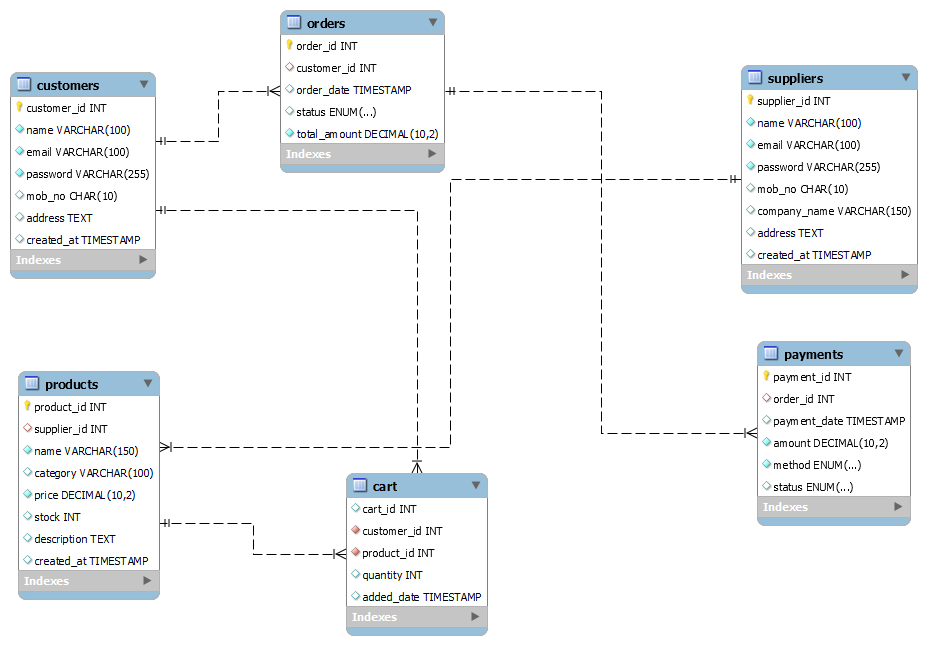
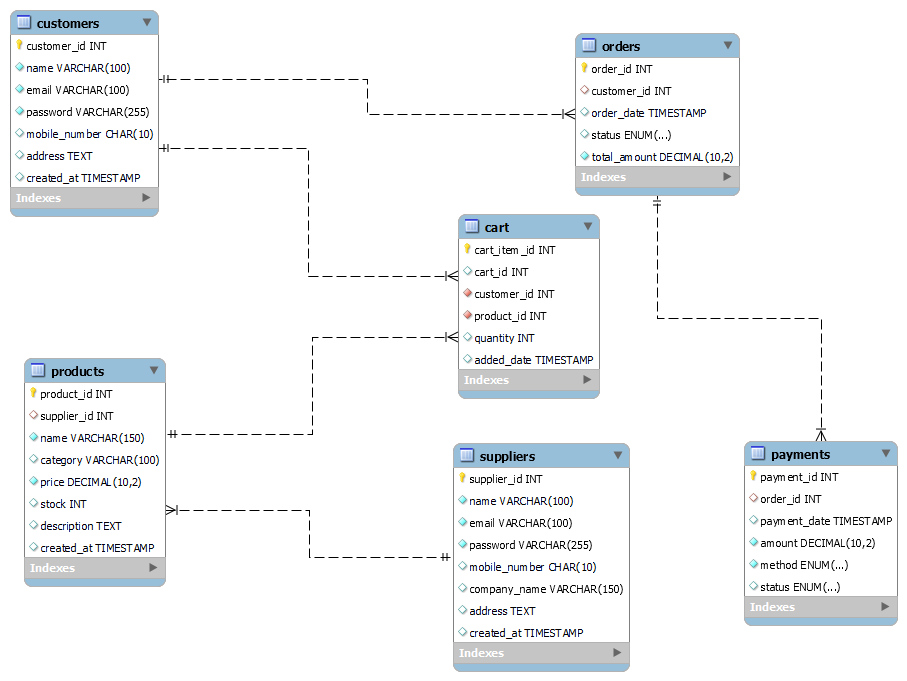
inital commit

diff --git a/quitq/src/main/java/com/hexaware/entity/Customer.java b/quitq/src/main/java/com/hexaware/entity/Customer.java
@@ -2,103 +2,110 @@ package com.hexaware.entity;
 
 import java.util.Date;
 
-public class Supplier {
+public class Customer {
 	
-	private int supplierId;
+	private int customerId;
 	private String name;
 	private String email;
 	private String password;
 	private String mobileNumber;
-	private String companyName;
 	private String address;
 	private Date createdAt;
 	
-	public Supplier() {
+	
+	public Customer() {
 		super();
 	}
 
-	public Supplier(int supplierId, String name, String email, String password, String mobileNumber, String companyName,
-			String address, Date createdAt) {
+
+	public Customer(int customerId, String name, String email, String password, String mobileNumber, String address,
+			Date createdAt) {
 		super();
-		this.supplierId = supplierId;
+		this.customerId = customerId;
 		this.name = name;
 		this.email = email;
 		this.password = password;
 		this.mobileNumber = mobileNumber;
-		this.companyName = companyName;
 		this.address = address;
 		this.createdAt = createdAt;
 	}
 
-	public int getSupplierId() {
-		return supplierId;
+
+	public int getCustomerId() {
+		return customerId;
 	}
 
-	public void setSupplierId(int supplierId) {
-		this.supplierId = supplierId;
+
+	public void setCustomerId(int customerId) {
+		this.customerId = customerId;
 	}
+
 
 	public String getName() {
 		return name;
 	}
 
+
 	public void setName(String name) {
 		this.name = name;
 	}
+
 
 	public String getEmail() {
 		return email;
 	}
 
+
 	public void setEmail(String email) {
 		this.email = email;
 	}
+
 
 	public String getPassword() {
 		return password;
 	}
 
+
 	public void setPassword(String password) {
 		this.password = password;
 	}
+
 
 	public String getMobileNumber() {
 		return mobileNumber;
 	}
 
+
 	public void setMobileNumber(String mobileNumber) {
 		this.mobileNumber = mobileNumber;
 	}
 
-	public String getCompanyName() {
-		return companyName;
-	}
-
-	public void setCompanyName(String companyName) {
-		this.companyName = companyName;
-	}
 
 	public String getAddress() {
 		return address;
 	}
 
+
 	public void setAddress(String address) {
 		this.address = address;
 	}
+
 
 	public Date getCreatedAt() {
 		return createdAt;
 	}
 
+
 	public void setCreatedAt(Date createdAt) {
 		this.createdAt = createdAt;
 	}
 
+
 	@Override
 	public String toString() {
-		return "Supplier [supplierId=" + supplierId + ", name=" + name + ", email=" + email + ", mobileNumber="
-				+ mobileNumber + ", companyName=" + companyName + ", address=" + address + ", createdAt=" + createdAt
-				+ "]";
+		return "Customer [customerId=" + customerId + ", name=" + name + ", email=" + email + ", mobileNumber="
+				+ mobileNumber + ", address=" + address + ", createdAt=" + createdAt + "]";
 	}
+
 
 }

diff --git a/quitq/src/main/java/com/hexaware/entity/Product.java b/quitq/src/main/java/com/hexaware/entity/Product.java
@@ -4,46 +4,46 @@ import java.util.Date;
 
 public class Product {
 
-	private int product_id;
-	private int supplier_id;
+	private int productId;
+	private int supplierId;
 	private String name;
 	private String category;
 	private double price;
 	private int stock;
 	private String description;
-	private Date created_at;
+	private Date createdAt;
 	
 	public Product() {
 		super();
 	}
 
-	public Product(int product_id, int supplier_id, String name, String category, double price, int stock,
-			String description, Date created_at) {
+	public Product(int productId, int supplierId, String name, String category, double price, int stock,
+			String description, Date createdAt) {
 		super();
-		this.product_id = product_id;
-		this.supplier_id = supplier_id;
+		this.productId = productId;
+		this.supplierId = supplierId;
 		this.name = name;
 		this.category = category;
 		this.price = price;
 		this.stock = stock;
 		this.description = description;
-		this.created_at = created_at;
+		this.createdAt = createdAt;
 	}
 
-	public int getProduct_id() {
-		return product_id;
+	public int getProductId() {
+		return productId;
 	}
 
-	public void setProduct_id(int product_id) {
-		this.product_id = product_id;
+	public void setProductId(int productId) {
+		this.productId = productId;
 	}
 
-	public int getSupplier_id() {
-		return supplier_id;
+	public int getSupplierId() {
+		return supplierId;
 	}
 
-	public void setSupplier_id(int supplier_id) {
-		this.supplier_id = supplier_id;
+	public void setSupplierId(int supplierId) {
+		this.supplierId = supplierId;
 	}
 
 	public String getName() {
@@ -86,19 +86,19 @@ public class Product {
 		this.description = description;
 	}
 
-	public Date getCreated_at() {
-		return created_at;
+	public Date getCreatedAt() {
+		return createdAt;
 	}
 
-	public void setCreated_at(Date created_at) {
-		this.created_at = created_at;
+	public void setCreatedAt(Date createdAt) {
+		this.createdAt = createdAt;
 	}
 
 	@Override
 	public String toString() {
-		return "Product [product_id=" + product_id + ", supplier_id=" + supplier_id + ", name=" + name + ", category="
-				+ category + ", price=" + price + ", stock=" + stock + ", description=" + description + ", created_at="
-				+ created_at + "]";
+		return "Product [productId=" + productId + ", supplierId=" + supplierId + ", name=" + name + ", category="
+				+ category + ", price=" + price + ", stock=" + stock + ", description=" + description + ", createdAt="
+				+ createdAt + "]";
 	}
 
 	
